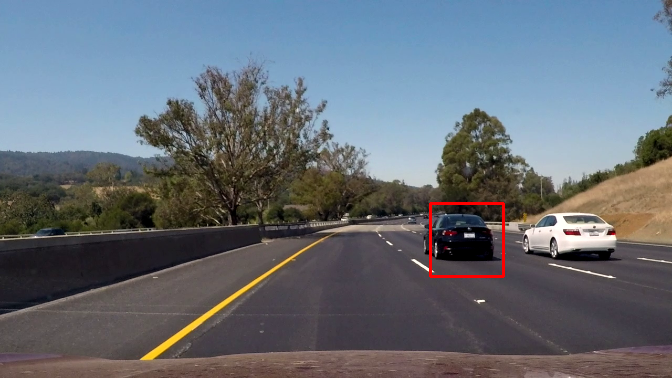
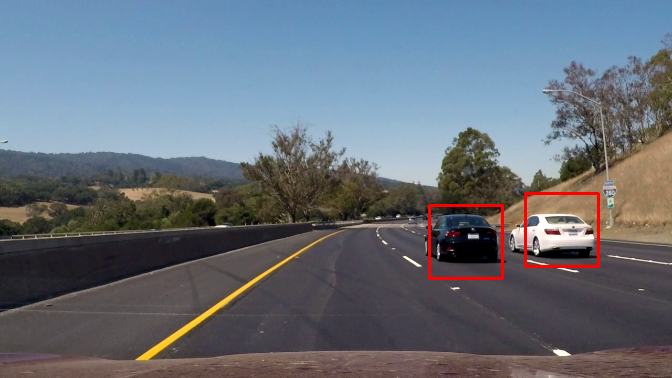
[WORKING] Created GIF of Vehicle Detection demo

diff --git a/Vehicle_Detection/main.cpp b/Vehicle_Detection/main.cpp
@@ -28,10 +28,8 @@ std::string type2str(int type) {
 int main() {
 
 	// -------------- Configuration Parameters --------------
-	
 	bool perform_test_svm = false;
 	bool seperate_svm_train = false; // SVMs for each label
-	
 	bool big_im = true;
 	std::string model_file_name = "";
 	if (big_im) {
@@ -41,13 +39,12 @@ int main() {
 		model_file_name = "model_small.yaml";
 	}
 
-	bool single_im_debug = true;
+	bool single_im_debug = false;
 	std::string car_dataset_loc = "../datasets/svm_data/vehicles/vehicles/";
 	std::string noncar_dataset_loc = "../datasets/svm_data/non-vehicles/non-vehicles/";
-	std::string single_test = "../datasets/udacity_challenge_video/challenge_frames/201911271512_5.png";
+	std::string single_test = "../datasets/udacity_challenge_video/challenge_frames/201911271512_3.png";
 	std::string dummy_img = "../datasets/x2_img.png";
 	// -------------- Configuration Parameters --------------
-	
 	
 	FeatureExtractor fe;
 
@@ -146,12 +143,6 @@ int main() {
 				noncar_dataset_loc,
 				false
 			);
-			/*std::pair<std::vector<cv::Mat>, std::vector<int>> dataset = fe.load_dataset(
-				dummy_img,
-				1,
-				false,
-				1
-			);*/
 
 			// Obtain features -- HOG
 			std::vector<cv::Mat> hog_ims = fe.featurize_dataset(dataset.first, false);
@@ -185,112 +176,59 @@ int main() {
 	}
 	else {
 		printf("Trained SVM Exists! Opening model...\n");
-		cv::Mat single_im;
-		cv::Mat color_im;
 		if (single_im_debug) {
+			cv::Mat single_im;
+			cv::Mat color_im;
 			single_im = cv::imread(single_test);
 			cv::resize(single_im, single_im, cv::Size(672,378));//(896, 504));//single_im//resize(352,624);
-			//cv::GaussianBlur(single_im, single_im, cv::Size(7, 7), 5, 10);
+			
 
 			printf("Resized to r = %i ----- c = %i\n", single_im.rows, single_im.cols);
 			color_im = single_im.clone();
 			cv::cvtColor(single_im, single_im, cv::COLOR_BGR2GRAY);
+
+			std::pair<cv::Ptr<cv::ml::SVM>, std::vector<float>> svm_items = fe.get_svm_detector(model_file_name, 1);
+			cv::HOGDescriptor hog;
+			hog.winSize = cv::Size(64, 64);
+			hog.setSVMDetector(svm_items.second);
+
+			std::vector<cv::Point> roi = {
+											cv::Point(120,175),
+											cv::Point(672,175),
+											cv::Point(120,300),
+											cv::Point(672,300)
+			};
+			color_im = fe.vehicle_detect(color_im, hog, roi);
+
+			fe.show_image(color_im, 1, 1, 5000);
+			cv::imwrite("current_detections.png", color_im);
 		}
+		else {
 
-		//std::vector<float> svm_detector = fe.get_svm_detector(model_file_name);
-		std::pair<cv::Ptr<cv::ml::SVM>, std::vector<float>> svm_items = fe.get_svm_detector(model_file_name,1);
+			std::pair<cv::Ptr<cv::ml::SVM>, std::vector<float>> svm_items = fe.get_svm_detector(model_file_name, 1);
+			cv::HOGDescriptor hog;
+			hog.winSize = cv::Size(64, 64);
+			hog.setSVMDetector(svm_items.second);
 
+			std::vector<cv::Point> roi = {
+											cv::Point(120,175),
+											cv::Point(672,175),
+											cv::Point(120,300),
+											cv::Point(672,300)
+										 };
 
-		printf("size of detector is = %i", (int)svm_items.second.size());
-		/*for (auto i : svm_detector) {
-			printf("%f , \n", i);
-		}*/
-		cv::HOGDescriptor hog;
-		hog.winSize = cv::Size(64, 64);//(40, 40)
-		printf("Setting SVM to HOG -------------> \n");
-		hog.setSVMDetector(svm_items.second);
-		printf("Getting ROI Coordinates ! \n");
-		//fe.show_image(single_im, 1, 1, 5000);
-		
-		//fe.show_image(single_im, 1, 1, 5000);
-		/*printf("single im r = %i ---- c = %i\n", single_im.rows, single_im.cols);
-		single_im.resize(64, 64);
-		printf("single im r = %i ---- c = %i\n", single_im.rows, single_im.cols);*/
-
-		printf("About to inference!\n");
-		
-		std::vector<double> location_confidence;
-		single_im.convertTo(single_im, CV_8U);
-		
-		std::string mat_type = type2str(single_im.type());
-		std::cout << "--------------------> " << mat_type << std::endl;
-		/*std::vector<cv::Point> roi = {
-										cv::Point(120,250),
-										cv::Point(896,250),
-										cv::Point(120,504),
-										cv::Point(896,504) 
-									};*/
-		std::vector<cv::Point> roi = {
-										cv::Point(120,175),
-										cv::Point(672,175),
-										cv::Point(120,300),
-										cv::Point(672,300)
-		};
-		//std::cout << "x = " << roi[0].x << std::endl;
-		//std::cout << "y = " << roi[0].y << std::endl;
-		//std::cout << "width = " << roi[1].x - roi[0].x << std::endl;
-		//std::cout << "height = " << roi[2].y - roi[0].y << std::endl;
-		cv::Rect roi_im(roi[0].x, roi[0].y, roi[1].x - roi[0].x, roi[2].y - roi[0].y);
-
-		cv::Mat cropped_im = color_im(roi_im);
-		//std::cout << roi_im << std::endl;
-		//cv::rectangle(color_im, roi_im, cv::Scalar(0, 255, 0), 2);
-		//fe.show_image(color_im, 1, 1, 8000);
-		cv::DetectionROI roi_obj;
-		roi_obj.locations = roi;
-		std::vector<cv::DetectionROI> roi_vec = { roi_obj };
-		printf("----- Lets Detect ------------\n");
-		cv::Size w_s = { 32, 32 };
-		cv::Size w_sz = { 64, 64 };
-		//std::vector<cv::Rect> found_locations = fe.sliding_window(color_im, w_s,w_sz, 1.05, svm_items.first);
-		std::vector<cv::Rect> found_locations;
-		std::vector<double> confidence;
-		// Set the models from the training to 0, test to see if we get  any bounding boxes. 
-		hog.detectMultiScale(cropped_im, found_locations,confidence, 0.0, cv::Size(10,10), cv::Size(0, 0), 1.2632, 2.0);
-
-		std::vector<float> confidence2;
-		for (const double conf : confidence) {
-			confidence2.push_back(static_cast<float>(conf));
+			std::string path = "../datasets/udacity_challenge_video/challenge_frames/";
+			int count = 0;
+			for (const auto& entry : std::filesystem::directory_iterator(path)) {
+				std::string current_im_loc = entry.path().string();
+				cv::Mat img = cv::imread(current_im_loc);
+				cv::resize(img, img, cv::Size(672, 378));
+				img = fe.vehicle_detect(img, hog, roi);
+				std::string num_name = std::to_string(count);
+				cv::imwrite("vehicle_detection_imgs/" + num_name + ".png", img);
+				count++;
+			}
 		}
-		std::vector<int> keep_vec;
-		cv::dnn::dnn4_v20190902::MatShape kept_boxes;
-		cv::dnn::NMSBoxes(found_locations, confidence2, 0.4f, 0.3f, keep_vec);
-		for (const int idx : keep_vec) {
-			std::cout << idx << std::endl;
-		}
-		//cv::dnn::dnn4_v20190902::NMSBoxes(found_locations, confidence, 0.3f, 0.4f,kept_boxes);
-		//hog.detectMultiScale(single_im, found_locations,0.0,cv::Size(16,16),cv::Size(0,0),1.11,2.0);
-		//hog.detectMultiScaleROI(cropped_im, found_locations, roi_vec,2.0);
-		//hog.detectROI(cropped_im,roi, found_locations,location_confidence);
-		printf("----- Done Detect ------------\n");
-		for (double i : location_confidence) {
-			printf("%d -- \n", i);
-		}
-		printf("Size of found locations = %i", found_locations.size());
-
-		for (const int idx : keep_vec) {
-			cv::Rect curr_rect = found_locations[idx];
-			cv::rectangle(cropped_im, curr_rect, cv::Scalar(0, 0, 255), 2);
-		}
-
-		cropped_im.copyTo(color_im(roi_im));
-
-		/*for (cv::Rect rec : found_locations) {
-			cv::rectangle(cropped_im, rec, cv::Scalar(0, 0, 255), 2);
-		}*/
-		cv::cvtColor(single_im, single_im, cv::COLOR_GRAY2RGB);
-		fe.show_image(color_im, 1, 1, 5000);
-		cv::imwrite("current_detections.png", color_im);
 	}
 	return 0;
 }

diff --git a/Vehicle_Detection/feature_extractor.cpp b/Vehicle_Detection/feature_extractor.cpp
@@ -604,6 +604,34 @@ std::vector<cv::Point> FeatureExtractor::detection_roi(cv::Mat& input, double to
 	return roi;
 }
 
+cv::Mat FeatureExtractor::vehicle_detect(cv::Mat& img, cv::HOGDescriptor& detector, std::vector<cv::Point>& roi,bool include_all_bboxes) {
+	cv::Rect roi_im(roi[0].x, roi[0].y, roi[1].x - roi[0].x, roi[2].y - roi[0].y);
+	cv::Mat cropped_im = img(roi_im);
+	std::vector<cv::Rect> found_locations;
+	std::vector<double> confidence;
+	detector.detectMultiScale(cropped_im, found_locations, confidence, 0.0, cv::Size(8, 8), cv::Size(0, 0), 1.2632, 2.0);//cv::Size(10,10), cv::Size(0, 0), 1.2632, 2.0);
+	std::vector<float> confidence2;
+	for (const double conf : confidence) {
+		confidence2.push_back(static_cast<float>(conf));
+	}
+	std::vector<int> keep_vec;
+	cv::dnn::dnn4_v20190902::MatShape kept_boxes;
+	cv::dnn::NMSBoxes(found_locations, confidence2, 0.1f, 0.1f, keep_vec);//0.4f, 0.3f, keep_vec);
+
+	if (include_all_bboxes) {
+		for (cv::Rect r : found_locations) {
+			cv::rectangle(cropped_im, r, cv::Scalar(0, 255, 0), 2);
+		}
+	}
+
+	for (const int idx : keep_vec) {
+		cv::Rect curr_rect = found_locations[idx];
+		cv::rectangle(cropped_im, curr_rect, cv::Scalar(0, 0, 255), 2);
+	}
+	
+	cropped_im.copyTo(img(roi_im));
+	return img;
+}
 
 
 std::vector<cv::Rect> FeatureExtractor::sliding_window(cv::Mat& img, cv::Size& win_stride, cv::Size& window_size, float scale, const cv::Ptr <cv::ml::SVM>& model) {
@@ -627,7 +655,7 @@ std::vector<cv::Rect> FeatureExtractor::sliding_window(cv::Mat& img, cv::Size& w
 			for (int col = 0; col+win_stride.width <= gray_im.cols - win_stride.width; col+=win_stride.width) {
 				cv::Rect curr_window(col, row, window_size.width, window_size.height);
 				if (curr_window.x >= 0 && curr_window.y >= 0 && curr_window.width + curr_window.x < img.cols && curr_window.height + curr_window.y < img.rows){
-					cv::Mat curr_patch = gray_im(curr_window);
+					cv::Mat curr_patch = dest(curr_window);
 					hog.compute(curr_patch, descriptors, win_stride, cv::Size(0, 0), loc_pts);
 					cv::Mat prediction;
 					cv::Mat desc(descriptors);

diff --git a/Vehicle_Detection/feature_extractor.h b/Vehicle_Detection/feature_extractor.h
@@ -13,6 +13,7 @@
 #include <filesystem>
 #include <vector>
 #include <sstream>
+#include <string>
 #include <stdio.h>
 #include <iostream>
 #include <math.h>
@@ -41,8 +42,6 @@ public:
 	cv::Vec4i find_highest_point(std::vector<cv::Vec4i>&);
 	cv::Point extrapolate_line(cv::Vec4i&, int);
 	void show_image(cv::Mat&,int,int,int);
-
-	
 
 	std::vector<cv::Mat> featurize_dataset(std::vector<cv::Mat>&,bool);
 	
@@ -85,6 +84,13 @@ public:
 		int, 
 		bool,
 		int num_imgs = (200)
+	);
+
+	cv::Mat vehicle_detect(
+		cv::Mat&,
+		cv::HOGDescriptor&,
+		std::vector<cv::Point>&,
+		bool include_all_bboxes = (false)
 	);
 
 private:

diff --git a/README.md b/README.md
@@ -29,3 +29,5 @@ SVM Test Accuracy = 0.965000
 **Hough Transform for Lane Detection**
 ![demo](outputs/detected_lanes_py_5.gif "demo")
 
+**Histogram of Oriented Gradients & SVM for Vehicle Detection**
+![demo](outputs/detected_vehicles_1 "demo")
